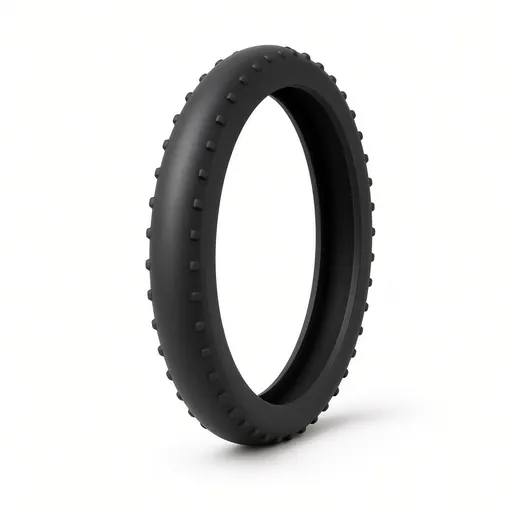
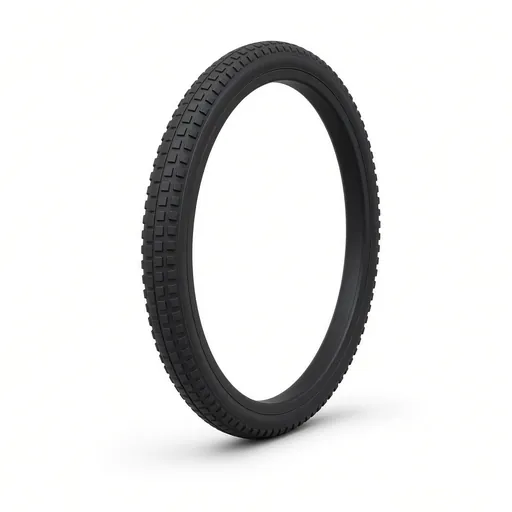
feat(images): regenerated MTB and semi-slick tyres; clearer kids' trike and semi-slick prompts

Changed region(s): [[0.25, 0.0625, 0.75, 0.9062], [0.625, 0.125, 0.6562, 0.1562]]

diff --git a/tools/make-image-prompts.js b/tools/make-image-prompts.js
@@ -91,7 +91,7 @@ const PARTS = {
   brakes: ['a bicycle rim brake caliper on a wheel rim', 'a mechanical disc brake caliper with a rotor and cable', 'a hydraulic disc brake caliper with a rotor and hose', 'a rear bicycle hub with a coaster brake arm'],
   drivetrain: ['a single-speed bicycle chainring, chain and single cog', 'an internal gear hub rear wheel hub', 'a 1x mountain bike drivetrain: single chainring and wide cassette', 'a 2x road bicycle drivetrain: double chainring, front and rear derailleurs'],
   rims: ['a plain steel bicycle wheel rim with spokes, chrome finish', 'a light single-wall aluminium bicycle rim with spokes', 'a deep double-wall aluminium bicycle rim with eyelets and spokes', 'a deep-section carbon bicycle rim with spokes, matte black'],
-  tyres: ['a smooth slick road bicycle tyre', 'a single semi-slick city bicycle tyre standing upright, seen at a three-quarter angle, ring shape with an open centre: the middle of the tread is a smooth slick strip and only the two edges have small knobs', 'an all-round gravel bicycle tyre with a fine dense tread', 'a single wide knobby mountain bike tyre (2.4 inch) standing upright, seen at a three-quarter angle, thin round ring shape like a real bicycle tyre with a large open centre, square knobs along the tread, nothing inside the ring', 'a narrow mud bicycle tyre with tall widely spaced knobs', 'a studded winter bicycle tyre with metal spikes'],
+  tyres: ['a smooth slick road bicycle tyre', 'a single semi-slick city bicycle tyre standing upright, seen almost head-on from the front so the tread faces the camera: a completely smooth bald strip runs down the middle of the tread, small knobs only along the two outer edges, ring shape with an open centre', 'an all-round gravel bicycle tyre with a fine dense tread', 'a single wide knobby mountain bike tyre (2.4 inch) standing upright, seen at a three-quarter angle, thin round ring shape like a real bicycle tyre with a large open centre, square knobs along the tread, nothing inside the ring', 'a narrow mud bicycle tyre with tall widely spaced knobs', 'a studded winter bicycle tyre with metal spikes'],
   cockpit: ['a flat mountain bike handlebar with grips', 'a swept-back city bicycle handlebar', 'a road bicycle drop handlebar', 'a flared gravel drop handlebar'],
   saddle: ['a wide padded comfort bicycle saddle', 'a narrow sport bicycle saddle', 'a dropper seatpost with a remote lever'],
   pedals: ['a flat platform bicycle pedal', 'a small road bike clipless pedal: narrow aerodynamic body with a spring-loaded cleat binding at the front and rear, no pins, no flat platform, with a matching triangular shoe cleat beside it'],
@@ -114,7 +114,7 @@ const TYPES = {
   ebike: 'a city electric bicycle: battery mounted on the down tube, motor at the bottom bracket, upright handlebar, fenders, rear rack, 28 inch wheels, dark grey',
   trike: 'an adult tricycle: one front wheel and two rear wheels on a rear axle, large basket between the rear wheels, low step-through frame, upright handlebar, light blue',
   cargo: 'a front-loader cargo bicycle: long wheelbase, large open wooden box in front of the rider between the handlebar and a small front wheel, 20 inch front wheel, 26 inch rear wheel',
-  kidTrike: "a toddler's tricycle with pedals on the front wheel, small seat with a backrest and a long detachable parent push handle behind, bright red",
+  kidTrike: "a toddler's tricycle with pedals on the front wheel hub, small seat with a backrest, and a long parent push handle: a metal bar rising from behind the seat up and back to adult hand height, about twice as tall as the tricycle, with a rubber grip on top, the whole handle fully visible, bright red",
   balance: "a toddler's balance bike without pedals and without a chain, 12 inch wheels, low saddle, metal frame, yellow",
   kidTraining: "a child's 16 inch bicycle with two small training wheels at the back, chain guard, bright blue",
   kid: "a child's 20 inch bicycle without training wheels, flat handlebar, V-brakes, green",
